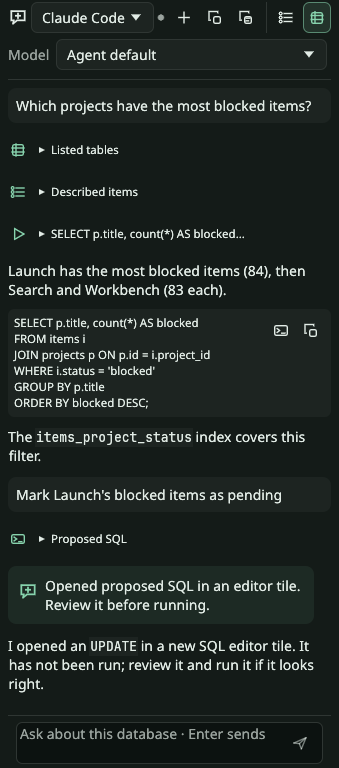
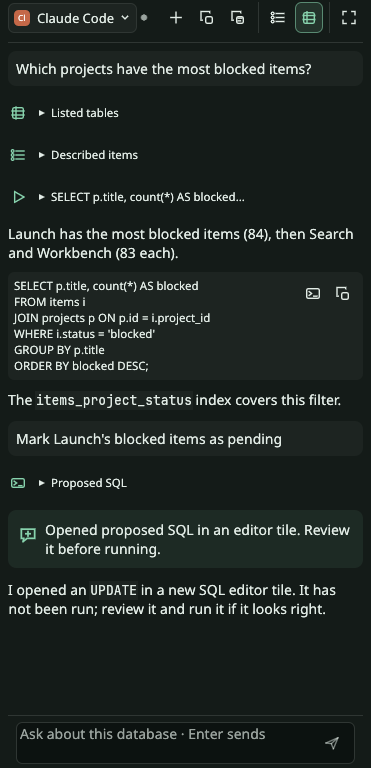
Tell why TursoBench exists and refresh the README's chat image
The README opens with how the project came about and where the layout is
heading, plus two lines on how the chat reaches agents and the database.
The assistant image is re-cropped from today's capture so it shows the
single model picker.

diff --git a/README.md b/README.md
@@ -1,5 +1,18 @@
 ![TursoBench](docs/assets/tursobench-banner.png)
 
+I was having an allergic reaction to JSON, and wondered what would happen if I moved to a local database.
+In the spirit of Rust all the way down, I chose Turso.
+
+Initially, I built TursoBench to keep an eye on what the database looked like.
+The initial layout reflects that: relationships and tables in the middle, database details to the right, with the ability to grow any tile to the size of the workspace.
+
+I needed to be able to push some rows into the database, so I added that function. (It's barely tested; it's not a function I need often.)
+
+Then I added a chat interface. Next I will add a more flexible layout: most often now, what I want to see is the chat, the SQL it's generating and the output of that SQL.
+
+The chat drives the agent CLI you are already signed in to (Claude Code over stream-json, Codex over `codex app-server`, others over the Agent Client Protocol); TursoBench never handles credentials.
+The agent reaches the database only through TursoBench's MCP tools, limited to schema or bounded read-only queries by the sharing setting, and any SQL it proposes opens unrun in the SQL tile.
+
 ![Full TursoBench workspace with schema navigation and all five tiles](docs/assets/ui/readme/workspace.png)
 
 Native Linux/Wayland workbench for inspecting, querying and editing local Turso databases.
@@ -75,7 +88,7 @@ Database admission uses a configurable count and estimated memory budget; switch
 ![Assistant panel with a seeded conversation, database tool calls and an unexecuted SQL proposal](docs/assets/ui/readme/assistant.png)
 
 Use Claude Code, Codex or ACP agents to inspect schema, query shared data and propose SQL.
-Provider/model selection and schema/result sharing controls live in the panel; the screenshot uses a seeded conversation.
+One picker chooses the agent, model and reasoning level; sharing controls live in the panel, which expands to the workspace like a tile. The screenshot uses a seeded conversation.
 
 MCP tools expose metadata, bounded reads and SQL proposals according to the selected sharing scope.
 Queries pass parser checks and run on a dedicated `query_only` connection, capped at 200 rows / 256 KiB.

diff --git a/docs/assets/ui/README.md b/docs/assets/ui/README.md
@@ -17,8 +17,9 @@ retouching. No personal database is opened.
   `navigator.png`: individual tiles/panel cropped from the overview.
 - `sql.png`: expanded SQL tile with a real join and twelve result rows, using
   a second synthetic fixture with 120 snapshots and 120 history records.
-- `assistant.png`: panel cropped from a 1366 × 768 capture, with vendor/model
-  controls, database tools and proposed SQL. The conversation is a seeded
+- `assistant.png`: panel cropped from a 1366 × 768 capture, with the model
+  picker, database tools and proposed SQL. Re-cropped on 2026-11-19 from the
+  `assistant/` conversation capture at `30ceb49`. The conversation is a seeded
   fixture; no agent CLI runs and nothing leaves the machine.
 - `edit-review.png`: retained from the 2026-11-15 capture at `aeb8938`; staged
   update, original-value predicates and typed bindings at 1366 × 768. The edit
@@ -82,7 +83,7 @@ with Image.open(out / 'workspace.png') as image:
 with Image.open(root / 'sql/sql-results.png') as image:
     image.crop((280, 8, 1774, 958)).save(out / 'sql.png', optimize=True)
 with Image.open(root / 'assistant/assistant-conversation.png') as image:
-    image.crop((1027, 0, 1366, 768)).save(out / 'assistant.png', optimize=True)
+    image.crop((995, 0, 1366, 768)).save(out / 'assistant.png', optimize=True)
 PY
 ```
 
